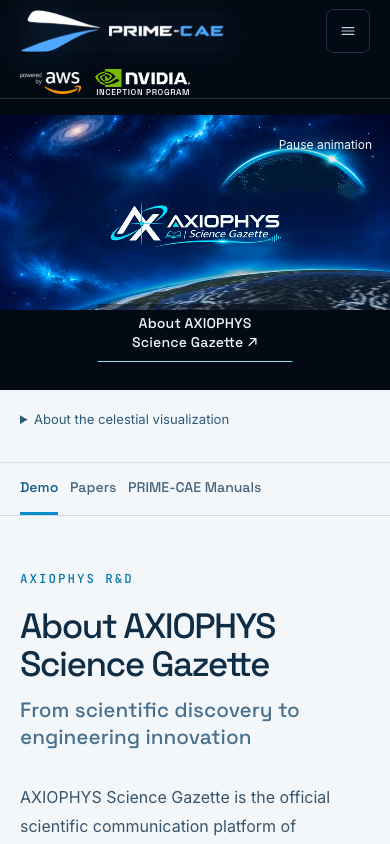
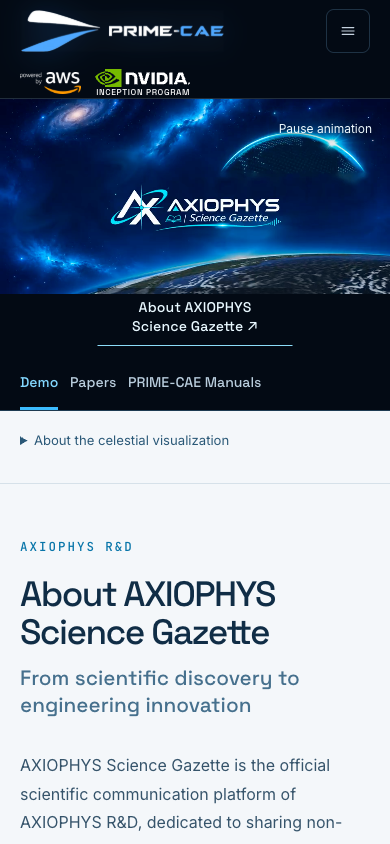
Fit Gazette video and menu to viewport

Changed region(s): [[0.0, 0.0924, 1.0, 0.5853], [0.0308, 0.6469, 0.8615, 0.9858], [0.0308, 0.5545, 0.1538, 0.6161]]

diff --git a/research.html b/research.html
@@ -1,4 +1,4 @@
-<!doctype html><html lang="en"><head><meta charset="utf-8"><meta name="viewport" content="width=device-width,initial-scale=1"><title>AXIOPHYS Science Gazette | Research &amp; Scientific Publications</title><meta name="description" content="Explore AXIOPHYS Science Gazette, the scientific communication platform of AXIOPHYS R&amp;D, featuring computational science, engineering demonstrations, research papers and PRIME-CAE manuals."><link rel="canonical" href="https://www.prime-cae.com/research.html"><meta name="theme-color" content="#030a14"><meta property="og:title" content="AXIOPHYS Science Gazette | Research &amp; Scientific Publications"><meta property="og:description" content="Explore AXIOPHYS Science Gazette, the scientific communication platform of AXIOPHYS R&amp;D, featuring computational science, engineering demonstrations, research papers and PRIME-CAE manuals."><meta property="og:url" content="https://www.prime-cae.com/research.html"><meta property="og:type" content="website"><meta property="og:image" content="https://www.prime-cae.com/media/gazette/science-gazette-poster.jpg"><link href="https://fonts.googleapis.com/css2?family=Space+Grotesk:wght@400;500;600&family=Inter:wght@400;500;600&family=JetBrains+Mono:wght@400;500&display=swap" rel="stylesheet"><link rel="stylesheet" href="css/tokens.css"><link rel="stylesheet" href="css/base.css"><link rel="stylesheet" href="css/layout.css"><link rel="stylesheet" href="css/components.css"><link rel="stylesheet" href="css/hero.css"><link rel="stylesheet" href="css/sections.css"><link rel="stylesheet" href="css/mobile.css"><link rel="stylesheet" href="css/news.css"><link rel="stylesheet" href="css/research.css?v=3"></head><body class="gazette-page"><header class="nav" id="nav" data-env="navy">
+<!doctype html><html lang="en"><head><meta charset="utf-8"><meta name="viewport" content="width=device-width,initial-scale=1"><script>if ('scrollRestoration' in history) history.scrollRestoration='manual';addEventListener('pageshow',function(){if(!location.hash)scrollTo({top:0,left:0,behavior:'instant'})});</script><title>AXIOPHYS Science Gazette | Research &amp; Scientific Publications</title><meta name="description" content="Explore AXIOPHYS Science Gazette, the scientific communication platform of AXIOPHYS R&amp;D, featuring computational science, engineering demonstrations, research papers and PRIME-CAE manuals."><link rel="canonical" href="https://www.prime-cae.com/research.html"><meta name="theme-color" content="#030a14"><meta property="og:title" content="AXIOPHYS Science Gazette | Research &amp; Scientific Publications"><meta property="og:description" content="Explore AXIOPHYS Science Gazette, the scientific communication platform of AXIOPHYS R&amp;D, featuring computational science, engineering demonstrations, research papers and PRIME-CAE manuals."><meta property="og:url" content="https://www.prime-cae.com/research.html"><meta property="og:type" content="website"><meta property="og:image" content="https://www.prime-cae.com/media/gazette/science-gazette-poster.jpg"><link href="https://fonts.googleapis.com/css2?family=Space+Grotesk:wght@400;500;600&family=Inter:wght@400;500;600&family=JetBrains+Mono:wght@400;500&display=swap" rel="stylesheet"><link rel="stylesheet" href="css/tokens.css"><link rel="stylesheet" href="css/base.css"><link rel="stylesheet" href="css/layout.css"><link rel="stylesheet" href="css/components.css"><link rel="stylesheet" href="css/hero.css"><link rel="stylesheet" href="css/sections.css"><link rel="stylesheet" href="css/mobile.css"><link rel="stylesheet" href="css/news.css"><link rel="stylesheet" href="css/research.css?v=4"></head><body class="gazette-page"><header class="nav" id="nav" data-env="navy">
   <div class="progress" aria-hidden="true"><i id="progressBar"></i></div>
   <div class="shell nav__in">
     <a class="nav__brand" href="#top" aria-label="PRIME-CAE home">
@@ -44,8 +44,8 @@
 <source src="media/gazette/science-gazette-mobile.mp4" type="video/mp4" media="(max-width:700px)"><source src="media/gazette/science-gazette-desktop.mp4" type="video/mp4"></video>
 <a class="gazette-hero__about" href="#about-gazette">About AXIOPHYS Science Gazette <span aria-hidden="true">↗</span></a>
 <button class="gazette-hero__play" type="button" data-gazette-toggle aria-label="Play animation">Play animation</button></div></section>
+<nav class="gazette-categories" aria-label="Research content"><a href="#demo" data-gazette-tab="demo" aria-current="true">Demo</a><a href="#papers" data-gazette-tab="papers">Papers</a><a href="#manuals" data-gazette-tab="manuals">PRIME-CAE Manuals</a></nav>
 <details class="gazette-credit shell"><summary>About the celestial visualization</summary><p>This independently produced artistic visualization depicts a computationally rendered Earth and spiral galaxy in slow motion. Earth imagery is informed by NASA’s <a href="https://science.nasa.gov/earth/earth-observatory/blue-marble-next-generation/">Blue Marble: Next Generation</a>. Specific source-image provenance for the finished animation has not been independently confirmed. The animation uses simplified motion and synthetic atmospheric effects. It is not real-time astronomical footage or a physical simulation. NASA did not produce or endorse this animation.</p><p>Scientific references: <a href="https://science.nasa.gov/learn/basics-of-space-flight/chapter2-1/">NASA reference systems</a> · <a href="https://science.nasa.gov/missions/hubble/hubble-comes-face-to-face-with-spirals-arms/">spiral galaxy structure</a> · <a href="https://www.nasa.gov/nasa-brand-center/images-and-media/">NASA media usage</a>.</p></details>
-<nav class="gazette-categories shell" aria-label="Research content"><a href="#demo" data-gazette-tab="demo" aria-current="true">Demo</a><a href="#papers" data-gazette-tab="papers">Papers</a><a href="#manuals" data-gazette-tab="manuals">PRIME-CAE Manuals</a></nav>
 <article class="gazette-intro shell" id="about-gazette"><p class="gazette-eyebrow">AXIOPHYS R&amp;D</p><h1>About AXIOPHYS Science Gazette</h1><h2>From scientific discovery to engineering innovation</h2><p>AXIOPHYS Science Gazette is the official scientific communication platform of AXIOPHYS R&amp;D, dedicated to sharing non-confidential discoveries, research findings, computational methodologies, and technological advancements emerging from the development of PRIME-CAE and the broader research activities of AXIOPHYS.</p><p>Through scientific publications, interactive demonstrations, and technical documentation, we aim to make computational science more accessible, foster scientific understanding, and connect fundamental research with practical engineering innovation.</p><a class="gazette-link" href="about-science-gazette.html">See more <span aria-hidden="true">↗</span></a></article>
 <section class="gazette-browser shell" aria-label="Research archive"><section id="demo" data-gazette-panel="demo"><div class="gazette-section-head"><p class="gazette-eyebrow">Research archive</p><h2>Demo</h2><p>Engineering demonstrations and technical resources from AXIOPHYS and PRIME-CAE R&amp;D.</p></div>
 <section aria-labelledby="cube-video-title" class="news-cube-video"><h2 id="cube-video-title">Stress concentration around a hole</h2><figure class="news-demo news-media-row"><div class="news-media-visual"><video aria-label="Cube with a hole under side tension" controls="" playsinline="" poster="assets/news/PRIME-CAE_FEM_stress_concentration.jpg" preload="none"><source src="assets/news/PRIME-CAE_side_tension_demo.mp4" type="video/mp4"/>Your browser does not support embedded video. <a href="assets/news/PRIME-CAE_side_tension_demo.mp4">Download the cube side-tension video</a>.</video></div><figcaption class="news-media-copy"><h3>Cube under side tension</h3><p>Inspect stress concentration around the hole as the cube is pulled from its sides. The video presents the model’s stress field.</p><p class="news-media-note">Cube with a hole under side tension · PRIME-CAE demonstration.</p></figcaption></figure></section>
@@ -61,4 +61,4 @@
     <nav class="foot__links" aria-label="Footer"><a href="index.html#about">About</a> <a href="index.html#layer">PRIME-CAE</a> <a href="research.html">Research</a> <a href="news.html">News</a> <a href="index.html#access">Contact</a></nav>
     <span class="t-micro">© <span id="year">2026</span> PRIME-CAE</span>
   </div>
-</footer><script type="module" src="js/research.js?v=2"></script></body></html>
+</footer><script type="module" src="js/research.js?v=3"></script></body></html>

diff --git a/css/research.css b/css/research.css
@@ -2,9 +2,9 @@
 .gazette-page .nav,.news-page .nav{background:#030a14}
 .gazette-page .nav__a[aria-current="page"],.news-page .nav__a[aria-current="page"]{color:#78cfff}
 .gazette-page .nav__ind{display:none}
-.gazette-hero{min-height:100svh;padding:var(--gazette-nav-h,var(--nav-h)) 0 0;background:#030a14;display:grid;place-items:center}
-.gazette-hero__frame{position:relative;width:min(100%,1920px);margin-inline:auto;isolation:isolate}
-.gazette-hero video{display:block;width:100%;height:auto;max-height:calc(100svh - var(--gazette-nav-h,var(--nav-h)));aspect-ratio:2/1;object-fit:contain;background:#030a14}
+.gazette-hero{min-height:calc(100svh - var(--gazette-category-h,58px));padding:var(--gazette-nav-h,var(--nav-h)) 0 0;background:#030a14;display:grid;align-content:start}
+.gazette-hero__frame{position:relative;width:100%;margin-inline:auto;isolation:isolate}
+.gazette-hero video{display:block;width:100%;height:auto;max-height:calc(100svh - var(--gazette-nav-h,var(--nav-h)) - var(--gazette-category-h,58px));aspect-ratio:2/1;object-fit:contain;background:#030a14}
 .gazette-hero__about{position:absolute;left:50%;bottom:22%;translate:-50% 0;z-index:2;white-space:nowrap;color:#e9f8ff;font:500 clamp(.88rem,1.1vw,1.1rem)/1.3 var(--font-sans);letter-spacing:.01em;padding:10px 16px;border-bottom:1px solid #8cdcf8;background:rgba(3,10,20,.48)}
 .gazette-hero__about:hover{background:rgba(3,10,20,.78)}
 .gazette-hero__play{position:absolute;right:clamp(12px,2vw,28px);top:clamp(12px,2vw,28px);z-index:2;color:#eef9ff;background:rgba(3,10,20,.12);border:0;padding:8px 10px;min-height:44px;font-size:.85rem;text-shadow:0 1px 8px #000}
@@ -12,11 +12,11 @@
 .gazette-credit{padding-block:18px 24px;border-bottom:1px solid #d6e1e9;color:#476177;font-size:.82rem;line-height:1.7}
 .gazette-credit summary{cursor:pointer;color:#2a5877;min-height:30px}
 .gazette-credit p{max-width:85ch;margin:12px 0 0}.gazette-credit a,.gazette-article a:not(.gazette-back){color:#086ca8;text-decoration:underline;text-underline-offset:3px}
-.gazette-categories{position:sticky;top:var(--gazette-nav-h,var(--nav-h));z-index:12;display:flex;gap:clamp(8px,3vw,34px);background:#f4f7fa;border-bottom:1px solid #c7d8e4;overflow:auto;scrollbar-width:thin}
+.gazette-categories{position:sticky;top:var(--gazette-nav-h,var(--nav-h));z-index:12;display:flex;gap:clamp(8px,3vw,34px);width:100%;padding-inline:var(--gutter);background:#030a14;border-bottom:1px solid #1d3b51;overflow:auto;scrollbar-width:thin}
 .gazette-categories{transition:transform .24s ease,opacity .24s ease}
 .gazette-categories--hidden{transform:translateY(calc(-100% - var(--gazette-nav-h,var(--nav-h))));opacity:0;pointer-events:none}
-.gazette-categories a{display:inline-flex;align-items:center;min-height:58px;white-space:nowrap;color:#43647e;font:500 clamp(.88rem,1.3vw,1.05rem)/1.3 var(--font-sans);border-bottom:3px solid transparent}
-.gazette-categories a[aria-current="true"]{color:#0e5c8d;border-color:#0b8cc9}
+.gazette-categories a{display:inline-flex;align-items:center;min-height:58px;white-space:nowrap;color:#b9cddd;font:500 clamp(.88rem,1.3vw,1.05rem)/1.3 var(--font-sans);border-bottom:3px solid transparent}
+.gazette-categories a[aria-current="true"]{color:#83d8ff;border-color:#3cbcff}
 .gazette-intro{padding-block:clamp(64px,8vw,120px);scroll-margin-top:calc(var(--gazette-nav-h,var(--nav-h)) + 70px);border-bottom:1px solid #cad9e3}
 .gazette-intro>*{max-width:78ch}.gazette-eyebrow{font:500 .78rem/1.5 var(--font-mono);letter-spacing:.16em;text-transform:uppercase;color:#0875a9;margin-bottom:18px}
 .gazette-intro h1,.gazette-article h1{font:500 clamp(2.2rem,5vw,4.6rem)/1.08 var(--font-sans);letter-spacing:-.045em;color:#102d46;margin:0 0 14px;max-width:18ch}
@@ -35,5 +35,5 @@
 .gazette-page .foot,.news-page .foot{background:#030a14;color:#d9eafa}
 .news-page .news-hero{padding-top:calc(var(--nav-h) + 46px)}
 .news-content#news-updates{scroll-margin-top:calc(var(--nav-h) + 22px)}
-@media(max-width:700px){.gazette-hero{min-height:0;padding-top:calc(var(--gazette-nav-h,var(--nav-h)) + 16px);padding-bottom:16px;display:block}.gazette-hero__frame{padding-bottom:64px}.gazette-hero video{max-height:none}.gazette-hero__about{bottom:12px;left:50%;max-width:calc(100% - 28px);white-space:normal;text-align:center;font-size:.88rem}.gazette-hero__play{top:8px;right:8px;font-size:.75rem;background:rgba(3,10,20,.08)}.gazette-categories a{min-height:52px}.gazette-intro{padding-block:54px}.gazette-browser{padding-bottom:60px}.gazette-article{padding-top:calc(var(--gazette-nav-h,var(--nav-h)) + 38px)}.gazette-article .gazette-back{margin-bottom:38px}}
+@media(max-width:700px){.gazette-hero{min-height:0;padding-top:var(--gazette-nav-h,var(--nav-h));padding-bottom:0;display:block}.gazette-hero__frame{padding-bottom:64px}.gazette-hero video{max-height:none}.gazette-hero__about{bottom:12px;left:50%;max-width:calc(100% - 28px);white-space:normal;text-align:center;font-size:.88rem}.gazette-hero__play{top:8px;right:8px;font-size:.75rem;background:rgba(3,10,20,.08)}.gazette-categories a{min-height:52px}.gazette-intro{padding-block:54px}.gazette-browser{padding-bottom:60px}.gazette-article{padding-top:calc(var(--gazette-nav-h,var(--nav-h)) + 38px)}.gazette-article .gazette-back{margin-bottom:38px}}
 @media(prefers-reduced-motion:reduce){.gazette-hero video{animation:none}}

diff --git a/js/research.js b/js/research.js
@@ -16,9 +16,11 @@ let categoryFrame = 0;
 
 function measureHeader() {
   document.documentElement.style.setProperty('--gazette-nav-h', `${Math.ceil(header.getBoundingClientRect().height)}px`);
+  document.documentElement.style.setProperty('--gazette-category-h', `${Math.ceil(categoryBar.getBoundingClientRect().height)}px`);
 }
 measureHeader();
 new ResizeObserver(measureHeader).observe(header);
+new ResizeObserver(measureHeader).observe(categoryBar);
 
 function selectCategory() {
   const category = location.hash.slice(1);
